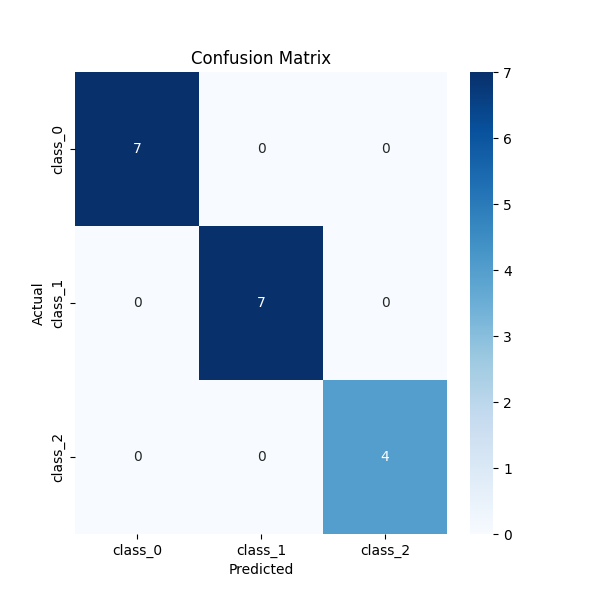
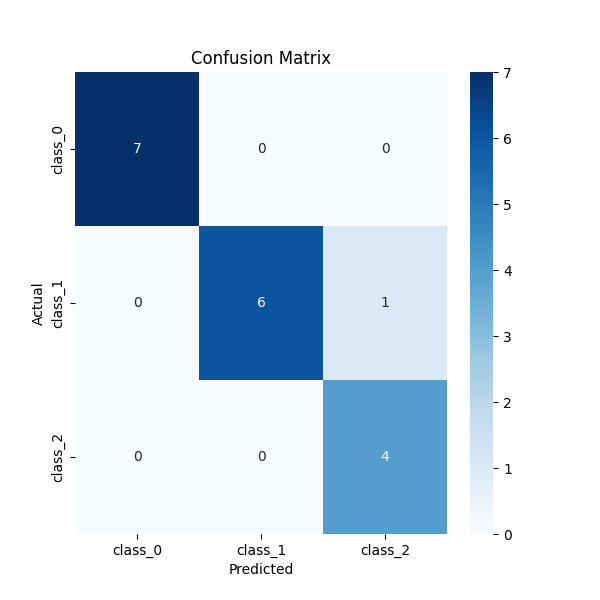
Autolog

Changed region(s): [[0.33, 0.36, 0.75, 0.66]]

diff --git a/mlartifacts/176398541015933514/e0a1939cba2e4693a84b26ebaf4ec4b6/artifacts/autolog.py b/mlartifacts/176398541015933514/e0a1939cba2e4693a84b26ebaf4ec4b6/artifacts/autolog.py
@@ -1,0 +1,57 @@
+#import os
+#os.environ['MLFLOW_TRACKING_URI'] = "http://127.0.0.1:5000"  # Override environment variable
+
+import mlflow
+import mlflow.sklearn
+from sklearn.datasets import load_wine
+from sklearn.ensemble import RandomForestClassifier
+from sklearn.model_selection import train_test_split
+from sklearn.metrics import accuracy_score, confusion_matrix
+import matplotlib.pyplot as plt
+import seaborn as sns
+from mlflow.entities import RunInfo
+
+mlflow.set_tracking_uri("http://127.0.0.1:5000")
+
+# Load Wine dataset
+wine = load_wine()
+X = wine.data
+y = wine.target
+
+# Train test split
+X_train, X_test, y_train, y_test = train_test_split(X, y, test_size=0.10, random_state=42)
+
+# Define the params for RF model
+max_depth = 10
+n_estimators = 10
+
+# Mention your experiment below
+mlflow.autolog()
+mlflow.set_experiment('MLOPS-Exp1')
+
+with mlflow.start_run():
+    rf = RandomForestClassifier(max_depth=max_depth, n_estimators=n_estimators, random_state=42)
+    rf.fit(X_train, y_train)
+
+    y_pred = rf.predict(X_test)
+    accuracy = accuracy_score(y_test, y_pred)
+
+    
+    # # Creating a confusion matrix plot
+    cm = confusion_matrix(y_test, y_pred)
+    plt.figure(figsize=(6,6))
+    sns.heatmap(cm, annot=True, fmt='d', cmap='Blues', xticklabels=wine.target_names, yticklabels=wine.target_names)
+    plt.ylabel('Actual')
+    plt.xlabel('Predicted')
+    plt.title('Confusion Matrix')
+
+    # save plot
+    plt.savefig("Confusion-matrix.png")
+
+    # log artifacts using mlflow
+    mlflow.log_artifact(__file__)
+
+    # # tags
+    mlflow.set_tags({"Author": 'Raj', "Project": "Wine Classification"})
+
+    print(accuracy)

diff --git a/src/autolog.py b/src/autolog.py
@@ -1,0 +1,57 @@
+#import os
+#os.environ['MLFLOW_TRACKING_URI'] = "http://127.0.0.1:5000"  # Override environment variable
+
+import mlflow
+import mlflow.sklearn
+from sklearn.datasets import load_wine
+from sklearn.ensemble import RandomForestClassifier
+from sklearn.model_selection import train_test_split
+from sklearn.metrics import accuracy_score, confusion_matrix
+import matplotlib.pyplot as plt
+import seaborn as sns
+from mlflow.entities import RunInfo
+
+mlflow.set_tracking_uri("http://127.0.0.1:5000")
+
+# Load Wine dataset
+wine = load_wine()
+X = wine.data
+y = wine.target
+
+# Train test split
+X_train, X_test, y_train, y_test = train_test_split(X, y, test_size=0.10, random_state=42)
+
+# Define the params for RF model
+max_depth = 10
+n_estimators = 10
+
+# Mention your experiment below
+mlflow.autolog()
+mlflow.set_experiment('MLOPS-Exp1')
+
+with mlflow.start_run():
+    rf = RandomForestClassifier(max_depth=max_depth, n_estimators=n_estimators, random_state=42)
+    rf.fit(X_train, y_train)
+
+    y_pred = rf.predict(X_test)
+    accuracy = accuracy_score(y_test, y_pred)
+
+    
+    # # Creating a confusion matrix plot
+    cm = confusion_matrix(y_test, y_pred)
+    plt.figure(figsize=(6,6))
+    sns.heatmap(cm, annot=True, fmt='d', cmap='Blues', xticklabels=wine.target_names, yticklabels=wine.target_names)
+    plt.ylabel('Actual')
+    plt.xlabel('Predicted')
+    plt.title('Confusion Matrix')
+
+    # save plot
+    plt.savefig("Confusion-matrix.png")
+
+    # log artifacts using mlflow
+    mlflow.log_artifact(__file__)
+
+    # # tags
+    mlflow.set_tags({"Author": 'Raj', "Project": "Wine Classification"})
+
+    print(accuracy)

diff --git a/src/dagshub_file2.py b/src/dagshub_file2.py
@@ -14,7 +14,7 @@ from mlflow.entities import RunInfo
 import dagshub
 dagshub.init(repo_owner='Rksingh9883122', repo_name='MLFLOW_Experiments', mlflow=True)
 
-mlflow.set_tracking_uri("https://dagshub.com/Rksingh9883122/MLFLOW_Experiments.git")
+mlflow.set_tracking_uri("https://dagshub.com/Rksingh9883122/MLFLOW_Experiments.mlflow")
 
 # Load Wine dataset
 wine = load_wine()

diff --git a/README.md b/README.md
@@ -1,2 +1,3 @@
 # MLFLOW_Experiments
 This repo gives an overall understanding of working with MLflow
+
